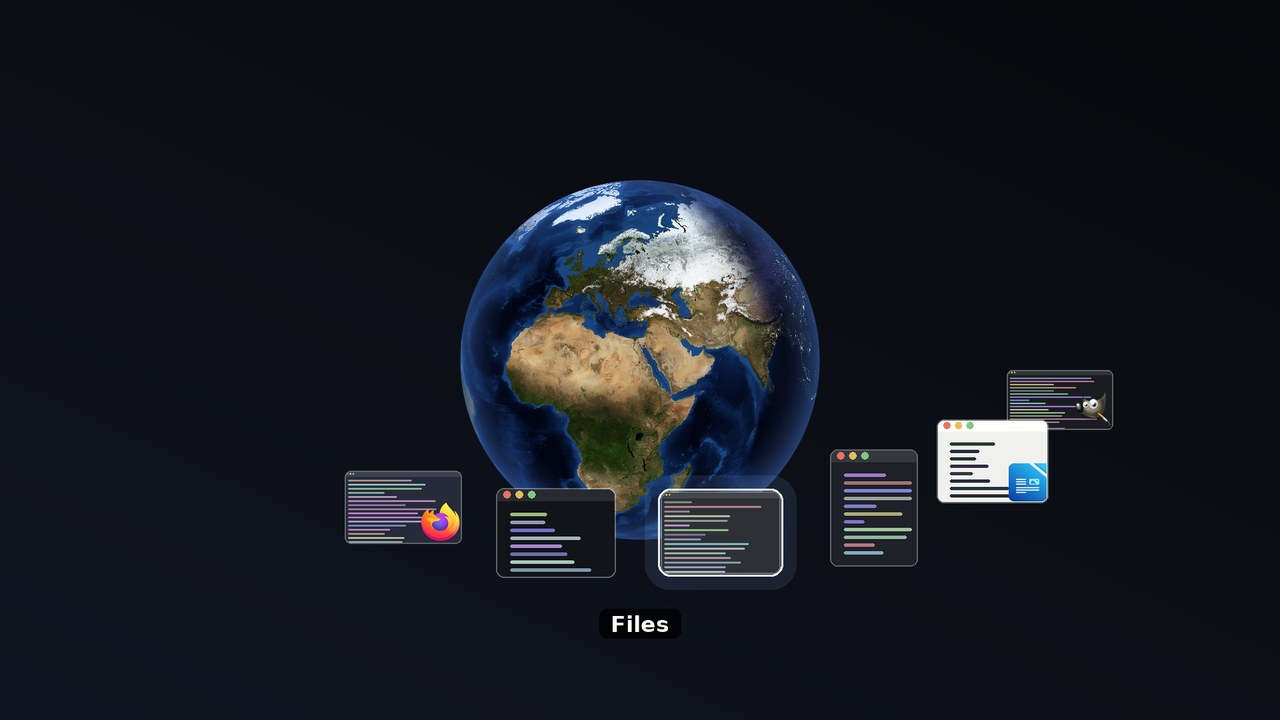
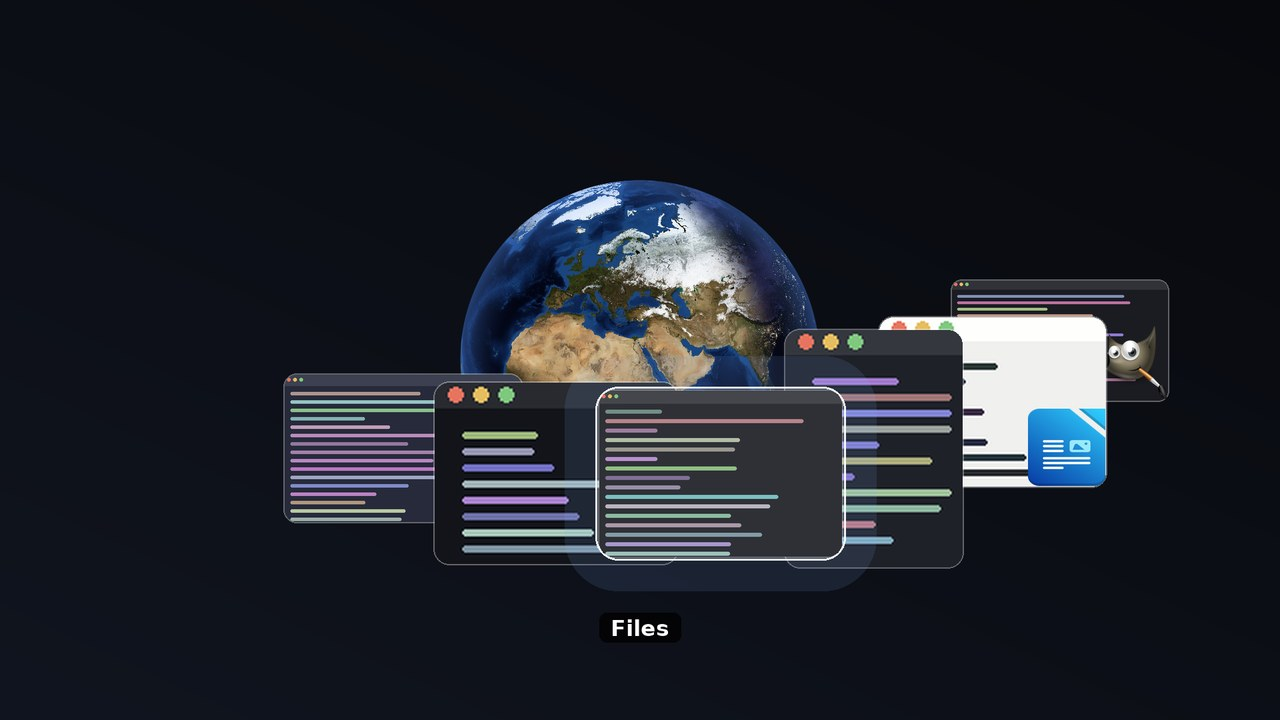
Double the window tiles and lift the ring off the south pole
The ring lay exactly on the equatorial plane, and the camera tilt multiplies
the projected offset by the ring's radius rather than the globe's, so its
near side sat far below the equator, down at the south pole. The ring now
floats 0.36 globe radii above that plane, which on screen is a plain upward
shift, and it crosses just under the equator where it belongs.

Window tiles are twice the size, which makes what is inside a window
readable at a glance. They overlap at that size, but depth ordering makes
the overlap read as a stack with the selected window whole and in front.

Doubling the tiles and widening the region cost a third of the frame rate,
so three things paid it back:

- the globe's gather now writes straight into its output buffer, pointing
  every pixel outside the disc at a black row appended to the map, instead
  of gathering into a temporary and scattering through a mask: 7.9 to 5.1 ms
- a tile is a rounded rectangle, so only its corners and edge need blending;
  the solid middle, about 95% of it, is copied instead: 5.6 to 2.4 ms
- the region's height is derived from how far round the windows can actually
  reach, rather than assuming the whole ring is occupied

A frame is 16.8 ms again, so the roll keeps its fifteen frames. The tile
fast path was checked against a full blend and is pixel for pixel identical.

Changed region(s): [[0.2188, 0.3667, 0.9062, 0.825], [0.5625, 0.3361, 0.5938, 0.4278], [0.4688, 0.8556, 0.5312, 0.8861]]

diff --git a/globeswitcher/ui.py b/globeswitcher/ui.py
@@ -37,14 +37,21 @@ from .globe import VIEW_TILT_RADIANS
 
 # Layout, as fractions of the screen's short axis.
 GLOBE_FRACTION = 0.50
-ITEM_FRACTION = 0.145
-ITEM_MIN = 84
-ITEM_MAX = 190
+ITEM_FRACTION = 0.29
+ITEM_MIN = 168
+ITEM_MAX = 380
 
 # The ring the windows ride on, in globe radii. Wide enough that
 # ORBIT_RADIUS * sin(view tilt) is about 1, which puts the window at the front
 # on the globe's lower rim rather than across its face.
 ORBIT_RADIUS = 2.40
+
+# How far the ring floats above the equatorial plane, in globe radii. A ring
+# lying exactly on the equator projects far below the globe's centre -- the
+# camera tilt multiplies the offset by the ring's radius -- and the windows end
+# up sweeping past the south pole. Lifting the ring slides the whole ellipse
+# back up, so it crosses just below the equator where it belongs.
+ORBIT_LIFT = 0.36
 
 # The gap between neighbouring windows on the ring. Fixed rather than
 # 360/n, so a handful of windows sit together as a band across the equator
@@ -119,6 +126,48 @@ def blend(canvas, rgb, alpha, x, y):
     target[:] = delta.astype(np.uint8)
 
 
+def copy_rect(canvas, rgb, x, y):
+    """Drop an opaque block into `canvas` at (x, y), clipped to it."""
+    height, width = rgb.shape[:2]
+    canvas_height, canvas_width = canvas.shape[:2]
+
+    sx, sy = max(0, -x), max(0, -y)
+    ex = min(width, canvas_width - x)
+    ey = min(height, canvas_height - y)
+    if ex <= sx or ey <= sy:
+        return
+
+    canvas[y + sy:y + ey, x + sx:x + ex] = rgb[sy:ey, sx:ex]
+
+
+def opaque_inset(alpha, limit_fraction=0.34):
+    """The smallest border width outside which every pixel is solid.
+
+    Window tiles are rounded rectangles: only the corners and the hairline
+    edge are partly transparent, and everything inside is opaque. Copying that
+    interior instead of alpha-blending it is most of the cost of drawing a
+    tile, and at these sizes the tiles are the most expensive thing in a frame.
+
+    Returns None when no such border exists, as for a bare application icon.
+    """
+    height, width = alpha.shape
+    limit = int(min(height, width) * limit_fraction)
+    if limit < 1:
+        return None
+
+    # The property is monotone in the inset, so binary search finds the edge.
+    low, high, found = 0, limit, None
+    while low <= high:
+        middle = (low + high) // 2
+        block = alpha[middle:height - middle, middle:width - middle]
+        if block.size and block.min() == 255:
+            found = middle
+            high = middle - 1
+        else:
+            low = middle + 1
+    return found
+
+
 def split_rgba(image):
     """A PIL RGBA image as (contiguous RGB array, contiguous alpha array)."""
     data = np.asarray(image, dtype=np.uint8)
@@ -162,9 +211,26 @@ class Layout:
         self.item_size = int(min(ITEM_MAX, max(
             ITEM_MIN, short * ITEM_FRACTION * crowding)))
 
-        # How far above and below the centre the ring reaches on screen.
-        self.orbit_rise = (ORBIT_RADIUS * math.sin(VIEW_TILT_RADIANS)
-                           * self.globe_radius)
+        # How far below the centre the near side of the ring reaches. The far
+        # side's height depends on how far round the windows actually go, so
+        # it is worked out from the span rather than assumed to be the whole
+        # ring; see `orbit_top`.
+        tilt = VIEW_TILT_RADIANS
+        self.orbit_rise = ((ORBIT_RADIUS * math.sin(tilt)
+                            - ORBIT_LIFT * math.cos(tilt)) * self.globe_radius)
+
+    @property
+    def orbit_top(self):
+        """How far above the centre the furthest window can reach.
+
+        Reserving the whole ring's height would leave a band of the screen
+        being repainted for windows that are never there: with a handful of
+        them the ring is an arc, not a circle.
+        """
+        tilt = VIEW_TILT_RADIANS
+        highest = (math.cos(tilt) * ORBIT_LIFT
+                   - math.sin(tilt) * ORBIT_RADIUS * math.cos(self.span))
+        return highest * self.globe_radius
 
     @property
     def max_item_size(self):
@@ -211,8 +277,7 @@ class Layout:
         # ring itself narrow, or a long title would be cut off at the edge.
         half_width = max(half_width, self.width * 0.32)
 
-        highest = self.orbit_rise * math.cos(span)      # negative past 90
-        top = cy - max(self.globe_radius, reach - highest)
+        top = cy - max(self.globe_radius, reach + max(0.0, self.orbit_top))
         bottom = max(cy + self.globe_radius,
                      cy + self.orbit_rise + reach,
                      self.title_top + self.title_height)
@@ -255,10 +320,11 @@ class Layout:
             mz = ORBIT_RADIUS * math.cos(lon)
 
             # The same camera as the globe: lifted above the equator looking
-            # down, so the near side of the ring hangs below the centre. The
-            # beads sit on the equator, so the world y term is zero.
-            ny = -sin_t * mz
-            nz = cos_t * mz
+            # down, so the near side of the ring hangs below the centre.
+            # ORBIT_LIFT raises the ring's plane, which on screen is a plain
+            # upward shift of the whole ellipse.
+            ny = cos_t * ORBIT_LIFT - sin_t * mz
+            nz = sin_t * ORBIT_LIFT + cos_t * mz
 
             depth = nz
             height = int(self.item_size *
@@ -344,12 +410,13 @@ class TileFactory:
         self._cache = {}
 
     def get(self, index, height):
-        """(RGB, alpha) for window `index`, drawn `height` pixels tall."""
+        """(RGB, alpha, opaque inset) for window `index`, at `height` tall."""
         height = max(16, int(round(height / self.QUANTUM)) * self.QUANTUM)
         key = (index, height)
         tile = self._cache.get(key)
         if tile is None:
-            tile = split_rgba(self._build(index, height))
+            rgb, alpha = split_rgba(self._build(index, height))
+            tile = (rgb, alpha, opaque_inset(alpha))
             self._cache[key] = tile
         return tile
 
@@ -441,7 +508,7 @@ class Frame:
         return canvas, left, top
 
     def _draw_bead(self, canvas, bead, selected, left, top):
-        rgb, alpha = self.tiles.get(bead.index, bead.height)
+        rgb, alpha, inset = self.tiles.get(bead.index, bead.height)
         height, width = rgb.shape[:2]
         x = bead.x - width // 2 - left
         y = bead.y - height // 2 - top
@@ -451,10 +518,23 @@ class Frame:
             blend(canvas, glow_rgb, glow_alpha, x - pad, y - pad)
 
         if bead.opacity < 1.0:
-            alpha = (alpha.astype(np.uint16) *
+            faded = (alpha.astype(np.uint16) *
                      int(bead.opacity * 256) >> 8).astype(np.uint8)
+            blend(canvas, rgb, faded, x, y)
+            return
 
-        blend(canvas, rgb, alpha, x, y)
+        if not inset:
+            blend(canvas, rgb, alpha, x, y)
+            return
+
+        # Solid middle straight in, and only the soft border blended.
+        k = inset
+        copy_rect(canvas, rgb[k:height - k, k:width - k], x + k, y + k)
+        blend(canvas, rgb[:k], alpha[:k], x, y)
+        blend(canvas, rgb[height - k:], alpha[height - k:], x, y + height - k)
+        blend(canvas, rgb[k:height - k, :k], alpha[k:height - k, :k], x, y + k)
+        blend(canvas, rgb[k:height - k, width - k:],
+              alpha[k:height - k, width - k:], x + width - k, y + k)
 
     def _highlight(self, width, height):
         """A soft halo behind the window at the front, cached per size."""

diff --git a/globeswitcher/globe.py b/globeswitcher/globe.py
@@ -114,8 +114,8 @@ class Globe:
 
         # Reused every frame so a render allocates nothing.
         self._out = np.zeros((self.diameter, self.diameter, 3), dtype=np.uint8)
-        self._columns = np.empty(self._flat_inside.size, dtype=np.int32)
-        self._samples = np.empty((self._flat_inside.size, 3), dtype=np.uint8)
+        self._columns = np.empty(self.diameter * self.diameter, dtype=np.int32)
+        self._indices = np.empty(self.diameter * self.diameter, dtype=np.int32)
 
     # -- texture --------------------------------------------------------------
 
@@ -138,18 +138,26 @@ class Globe:
         self._map_mtime = mtime
         height, width = self._map.shape[:2]
 
-        # Everything the render loop needs, in the form it needs it: the map
-        # as a flat list of pixels, and per-disc-pixel the start of its row
-        # and its column at zero rotation. A frame is then an integer add and
-        # one gather.
-        self._map_flat = self._map.reshape(-1, 3)
-        rows = np.clip(
+        # Everything the render loop needs, in the form it needs it. A row of
+        # black is appended to the map and every pixel outside the disc is
+        # pointed at it, so a frame is one gather straight into the output
+        # buffer: no separate scatter, and no mask.
+        self._map_flat = np.vstack([
+            self._map.reshape(-1, 3),
+            np.zeros((width, 3), dtype=np.uint8)])
+        black_row = height * width
+
+        rows = np.full(self.diameter * self.diameter, black_row, dtype=np.int32)
+        inside_rows = np.clip(
             (self._row.ravel()[self._flat_inside] * height).astype(np.int32),
             0, height - 1)
-        self._row_offset = rows * width
-        self._column_base = np.mod(
-            (self._turn_inside * width).astype(np.int64), width
-        ).astype(np.int32)
+        rows[self._flat_inside] = inside_rows * width
+        self._row_offset = rows
+
+        columns = np.zeros(self.diameter * self.diameter, dtype=np.int32)
+        columns[self._flat_inside] = np.mod(
+            (self._turn_inside * width).astype(np.int64), width).astype(np.int32)
+        self._column_base = columns
         return True
 
     def refresh_if_stale(self, generator):
@@ -202,11 +210,11 @@ class Globe:
         np.add(self._column_base, shift, out=columns)
         np.subtract(columns, width, out=columns, where=columns >= width)
 
-        np.take(self._map_flat, self._row_offset + columns, axis=0,
-                out=self._samples)
+        indices = self._indices
+        np.add(self._row_offset, columns, out=indices)
 
         flat = out.reshape(-1, 3)
-        flat[self._flat_inside] = self._samples
+        np.take(self._map_flat, indices, axis=0, out=flat)
 
         # Blend towards the atmosphere colour near the limb.
         rim = flat[self._rim_positions].astype(np.int32)

diff --git a/README.md b/README.md
@@ -98,6 +98,13 @@ keeps the ring a shallow band around the waist rather than an arc over the
 poles. From its depth come two more things: windows nearer the viewer are
 drawn larger, and the ones swinging round the back are dimmed.
 
+The ring also floats a little above the equatorial plane. A ring lying exactly
+on the equator projects much further below the globe's centre than the equator
+itself does — the camera tilt multiplies the offset by the ring's radius, not
+the globe's — so the windows end up sweeping past the south pole. Lifting the
+ring slides the whole ellipse back up, and on screen that is simply a vertical
+shift, so it costs nothing.
+
 The spacing is a fixed angle rather than `360°/n`. Dividing the circle would
 fling four windows out to the four cardinal points and leave the globe ringed
 by empty space; a fixed step keeps a handful of windows together in front of
@@ -143,13 +150,26 @@ its ring. That rectangle is worked out once from the geometry, the dimmed
 desktop under it is prepared once, and each frame redraws and pushes only
 that.
 
-Three things make 60 frames a second reachable in Python. The globe's rotation
-is a whole-column shift of the map, so a frame is an integer add and one
-`numpy.take` rather than any floating-point work. Compositing is 32-bit
-integer arithmetic straight into numpy arrays, never through PIL images. And
-the finished frame is written into a **MIT-SHM** buffer the X server already
-has mapped, so handing it over costs nothing instead of pushing four megabytes
-down a socket — that alone took a frame from 21 ms to 17 ms.
+Four things make 60 frames a second reachable in Python.
+
+The globe's rotation is a whole-column shift of the map, so a frame is an
+integer add and one `numpy.take` rather than any floating-point work. A row of
+black is appended to the map and every pixel outside the disc points at it, so
+that gather writes the finished sphere directly into its buffer with no
+separate scatter and no mask.
+
+Compositing is 32-bit integer arithmetic straight into numpy arrays, never
+through PIL images. A window tile is a rounded rectangle, so only its corners
+and hairline edge are partly transparent; the solid middle — about 95% of it —
+is copied rather than blended, which at these tile sizes is most of the cost
+of drawing one.
+
+Only the rectangle the switcher can actually draw in is repainted, and it is
+derived from the arc the windows can reach rather than from the whole ring.
+
+And the finished frame is written into a **MIT-SHM** buffer the X server
+already has mapped, so handing it over costs nothing instead of pushing four
+megabytes down a socket.
 
 When the roll settles, drawing stops entirely and the daemon goes back to
 blocking on X input.
@@ -168,16 +188,23 @@ Constants at the top of the source:
 | `globeswitcher/globe.py` | `MAX_TEXTURE_AGE_SECONDS` | How stale the map may get before a refresh |
 | `globeswitcher/ui.py` | `GLOBE_FRACTION` | Globe diameter, as a share of the screen's short axis |
 | `globeswitcher/ui.py` | `ORBIT_RADIUS` | Ring radius, in globe radii |
+| `globeswitcher/ui.py` | `ORBIT_LIFT` | How far the ring floats above the equatorial plane |
 | `globeswitcher/ui.py` | `ANGULAR_STEP` | Angle between neighbouring windows |
+| `globeswitcher/ui.py` | `ITEM_FRACTION` | Window tile size, as a share of the screen's short axis |
 | `globeswitcher/ui.py` | `DEPTH_SCALE` | How much nearer windows grow |
 | `globeswitcher/ui.py` | `BACK_OPACITY` | Dimming of windows on the far side |
 | `globeswitcher/ui.py` | `BACKDROP_DIM` | How much of the desktop's brightness remains |
 | `globeswitcher/ui.py` | `BADGE_FRACTION` | Size of the application icon on a thumbnail |
 | `tools/globe-texture` | `TWILIGHT_LO` / `TWILIGHT_HI` | Solar elevations bounding the twilight blend |
 
-`ORBIT_RADIUS · sin(VIEW_TILT_RADIANS)` sets where the front window sits: near
-1 it rests on the globe's lower rim, below that it starts to cover the globe's
-face, and well above it the ring stops looking like a band around the equator.
+`(ORBIT_RADIUS · sin(VIEW_TILT_RADIANS) − ORBIT_LIFT · cos(VIEW_TILT_RADIANS))`
+is where the front window sits, in globe radii below the centre. Around 0.65 it
+crosses just under the equator; larger and it slides down towards the pole,
+smaller and it rides up over the globe's face.
+
+The tiles are deliberately large, which on a 1080p screen means they overlap
+and cover part of the globe. `ITEM_FRACTION` is the one number to turn down if
+you would rather see more of the Earth.
 
 After editing, re-run `./install.sh`.
 
